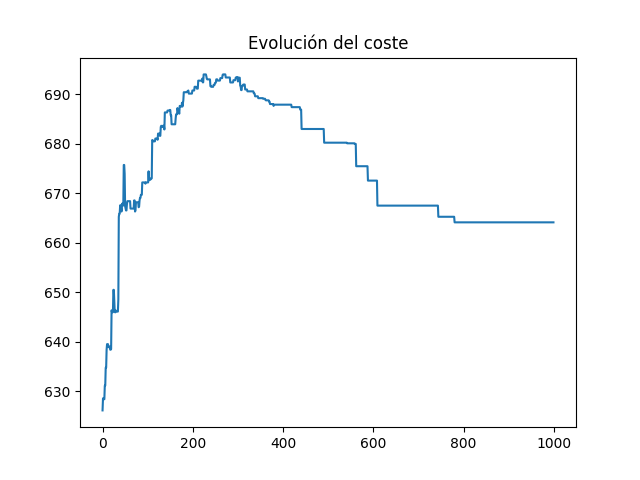
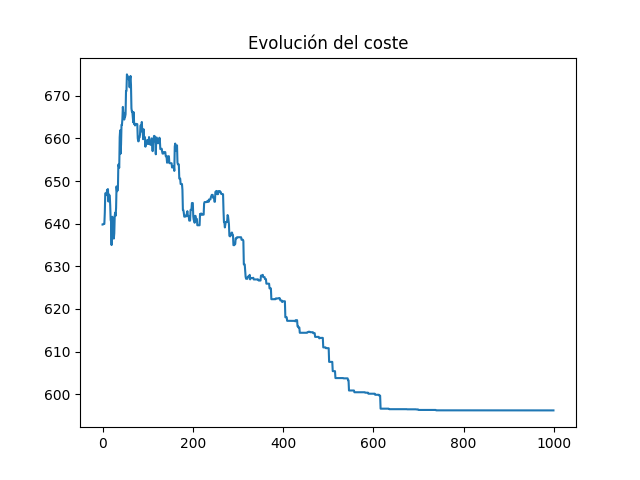
Ultimos cambios

diff --git a/Estado.py b/Estado.py
@@ -42,8 +42,9 @@ class Estado(object):
             if extendido:
                 for oferta2 in total_ofertas:
                     if oferta2!=oferta1 and ((oferta2 in ofertas_usadas and peso_ocupado<=lista_peso_libre[ofertas_usadas.index(oferta2)]) or (oferta2 not in ofertas_usadas and peso_ocupado<=self._transporte.pesomax(oferta2))):
+                        #Si podemos meter todos los paquetes de una oferta en otra (usada o nueva) hace SwapOferta (si caben y cumplen la prioridad)
                         if not simulated_annealing:
-                            yield SwapOferta(oferta1,oferta2)#Si podemos meter todos los paquetes de una oferta en otra (usada o nueva) hace SwapOferta (si caben y cumplen la prioridad)
+                            yield SwapOferta(oferta1,oferta2)
                         else:
                             list_acciones.append(SwapOferta(oferta1,oferta2))
 
@@ -64,8 +65,9 @@ class Estado(object):
                                 if lista_peso_libre[ofertas_usadas.index(oferta)]+peso_paquete2>=peso_paquete:
                                     if prioridad_paquete<=prioridad_paquete2:
                                         if (oferta[0]+1)//2<=prioridad_paquete:
+                                            #Si el paquete más grande cabe en la otra oferta y el paquete de menor prioridad puede ir a la otra oferta hace SwapPaquete
                                             if not simulated_annealing:
-                                                yield SwapPaquetes(paquete,paquete2,oferta1,oferta)#Si el paquete más grande cabe en la otra oferta y el paquete de menor prioridad puede ir a la otra oferta hace SwapPaquete
+                                                yield SwapPaquetes(paquete,paquete2,oferta1,oferta)
                                             else:
                                                 list_acciones.append(SwapPaquetes(paquete,paquete2,oferta1,oferta))
                                     else:
@@ -89,8 +91,9 @@ class Estado(object):
                                             else:
                                                 list_acciones.append(SwapPaquetes(paquete,paquete2,oferta1,oferta))
                     elif peso_paquete<=self._transporte.pesomax(oferta):
+                        #Si no estamos usando la oferta seguro que cabe y hacemos MovePaquete
                         if not simulated_annealing:
-                            yield MovePaquete(paquete,oferta1,oferta)#Si no estamos usando la oferta seguro que cabe y hacemos MovePaquete
+                            yield MovePaquete(paquete,oferta1,oferta)
                         else:
                             list_acciones.append(MovePaquete(paquete,oferta1,oferta))
         if simulated_annealing:
@@ -192,14 +195,14 @@ class Estado(object):
         '''
         Función heurística que busca minimizar el coste y augmentar la felicidad sin ponderación
         '''
-        return -self._coste#float(self._felicidad)/self._coste
+        return -self._coste
     
     def heuristic_ponderado(self):
         '''
         Función heurística que busca minimizar el coste y augmentar la felicidad teniendo 
         en cuenta la ponderación
         '''
-        return self.k*float(self._felicidad)-(1-self.k)*self._coste
+        return self.k*float(self._felicidad)-self._coste
     
     def heuristic_entropia(self):
         '''
@@ -279,7 +282,5 @@ def estado_inicial_aleatorio(paquetes: Paquetes,transporte: Transporte,k=1):
         paquetes.asignar()
         coste+=peso*0.25*(2 if oferta[0]==4 else 1) if oferta[0]>=2 else 0 #Sumamos el coste del almacén
         coste += 1.5*(1+ ((oferta[0]+1)//2)%2) if ((oferta[0]+1)//2)>0 else 5 #Sumamos el coste de envío
-        #print(coste)
-    print('estado inicial:',diccionario)
+
     return Estado(diccionario,transporte,paquetes,coste,0,k)
-#

diff --git a/experimento_7.py b/experimento_7.py
@@ -1,0 +1,57 @@
+import matplotlib
+matplotlib.use('agg')
+import matplotlib.pyplot as plt
+from timeit import timeit
+import random
+
+from Problem import Problema
+from Estado import estado_inicial, estado_inicial_aleatorio
+from Paquetes import Paquetes
+from Transporte import Transporte
+from aima.search import hill_climbing, simulated_annealing
+
+num_paquetes = 50
+def ponderaciones(num,semilla):
+    tiempos=[]
+    costes = []
+    for val in range(num):
+        
+        coste= []
+        time=[]
+        for _ in range(5):
+            paquetes=Paquetes(num_paquetes,semilla)
+            transporte=Transporte(paquetes._lista_paquetes,1.2,semilla)
+            p = Problema(estado_inicial_aleatorio(paquetes,transporte,val),1,'Ponderado',True)
+            time.append(timeit(lambda: coste.append(simulated_annealing(p)._felicidad),number=1))
+        costes.append(sum(coste) / len(coste))
+        tiempos.append(sum(time)/len(time))
+    return costes
+
+n=20
+semillas=[4925,1068,2850,1976,1735]
+pesos=[]
+times=[]
+proporciones = [i for i in range(n)]
+for j in range(5):
+    sem = semillas[j]
+    #semillas.append(sem)
+    precios = ponderaciones(n,sem)    
+    #times.append(tiempo)
+    pesos.append(precios) 
+    plt.plot(proporciones,precios,label=f'semilla {sem}')
+    
+    
+print(semillas)
+print(pesos)
+
+plt.legend()
+plt.title('Felicidad en función de la ponderación de la felicidad')
+plt.savefig('felicidad_sim_ann.png')
+'''
+plt.clf()
+for i in range(len(pesos)):
+    plt.plot(proporciones,times[i],label=f'semilla {semillas[i]}')
+
+plt.title('Tiempo de ejecución en función de la ponderación de la felicidad')
+plt.savefig('tiempos_sim_ann.png')
+'''

diff --git a/experimento_6.py b/experimento_6.py
@@ -12,28 +12,30 @@ from aima.search import hill_climbing, simulated_annealing
 
 num_paquetes = 50
 def ponderaciones(num,semilla):
-    
+    tiempos=[]
     costes = []
-    for val in range(num+1):
-        peso = val/num
+    for val in range(num):
         
         coste= []
-        for _ in range(3):
+        time=[]
+        for _ in range(5):
             paquetes=Paquetes(num_paquetes,semilla)
             transporte=Transporte(paquetes._lista_paquetes,1.2,semilla)
-            p = Problema(estado_inicial_aleatorio(paquetes,transporte,peso),1,'Ponderado',True)
-            coste.append(hill_climbing(p)._coste)
+            p = Problema(estado_inicial_aleatorio(paquetes,transporte,val),1,'Ponderado')
+            time.append(timeit(lambda: coste.append(hill_climbing(p)._coste),number=1))
         costes.append(sum(coste) / len(coste))
-    return costes
+        tiempos.append(sum(time)/len(time))
+    return tiempos
 
-semillas=[]
+semillas=[1814, 6627, 2530, 1718, 5707]
 pesos=[]
 for j in range(5):
-    n=10
-    sem = random.randint(1000,9999)
+    n=20
+    sem = semillas[j]
     precios = ponderaciones(n,sem)
-    proporciones = [k/n for k in range(n+1)]
-    semillas.append(sem) 
+    proporciones = [i for i in range(n)]
+
+    pesos.append(precios) 
     plt.plot(proporciones,precios,label=f'semilla {sem}')
     
     
@@ -41,5 +43,5 @@ print(semillas)
 print(pesos)
 
 plt.legend()
-plt.title('Costes en función de la ponderación de la felicidad')
-plt.savefig('costes_ponderaciones.png')
+plt.title('Tiempo de ejecución en función de la ponderación de la felicidad')
+plt.savefig('tiempo_ponderaciones.png')

diff --git a/main.py b/main.py
@@ -1,15 +1,8 @@
-import matplotlib
-matplotlib.use('agg')
-import matplotlib.pyplot as plt
-from timeit import timeit
-import random
-
 from Problem import Problema
 from Estado import estado_inicial, estado_inicial_aleatorio
 from Paquetes import Paquetes
 from Transporte import Transporte
 from aima.search import hill_climbing, simulated_annealing
-import timeit
 
 num_paquetes=50
 semilla=1234
@@ -17,20 +10,5 @@ paquetes=Paquetes(num_paquetes,semilla)
 transporte=Transporte(paquetes._lista_paquetes,1.2,semilla)
 
 p=Problema(estado_inicial_aleatorio(paquetes,transporte),simulated_annealing=True)
-problema,costes=simulated_annealing(p)
-#print(timeit.timeit(lambda: hill_climbing(Problema(estado_inicial(paquetes,transporte))), number=10))
-print('solución:',problema._asignaciones,problema._coste,problema._felicidad)
-print(p.pasos)
-print(len(costes))
-'''
-plt.plot([i for i in range(1000)],costes)
-plt.title('Evolución del coste')
-plt.savefig('evo_coste3.png')
-'''
-'''
-for oferta in transporte._lista_ofertas:
-    print(oferta)
-for paquete in range(len(paquetes._lista_paquetes)):
-    print(paquete,end=' ')
-    print(paquetes._lista_paquetes[paquete])
-    '''
+problema=simulated_annealing(p)
+print('solución:',problema._asignaciones,'\n Coste:',problema._coste,'\n Felicidad:',problema._felicidad)

diff --git a/pruebas.py b/pruebas.py
@@ -1,0 +1,36 @@
+import matplotlib
+matplotlib.use('agg')
+import matplotlib.pyplot as plt
+from timeit import timeit
+import random
+
+from Problem import Problema
+from Estado import estado_inicial, estado_inicial_aleatorio
+from Paquetes import Paquetes
+from Transporte import Transporte
+from aima.search import hill_climbing, simulated_annealing
+import timeit
+
+num_paquetes=50
+semilla=1234
+paquetes=Paquetes(num_paquetes,semilla)
+transporte=Transporte(paquetes._lista_paquetes,1.2,semilla)
+
+p=Problema(estado_inicial_aleatorio(paquetes,transporte),simulated_annealing=True)
+problema,costes=simulated_annealing(p)
+#print(timeit.timeit(lambda: hill_climbing(Problema(estado_inicial(paquetes,transporte))), number=10))
+print('solución:',problema._asignaciones,problema._coste,problema._felicidad)
+print(p.pasos)
+print(len(costes))
+
+plt.plot([i for i in range(1000)],costes)
+plt.title('Evolución del coste')
+plt.savefig('evo_coste5.png')
+
+'''
+for oferta in transporte._lista_ofertas:
+    print(oferta)
+for paquete in range(len(paquetes._lista_paquetes)):
+    print(paquete,end=' ')
+    print(paquetes._lista_paquetes[paquete])
+    '''

diff --git a/Problem.py b/Problem.py
@@ -11,7 +11,7 @@ class Problema(Problem):
         self.pasos=0 #Número de pasos ejecutados
         self.extendido=extendido #1 Si usamos el oferador SwapOferta 0 si no
         self.heuristica=heuristica #'Basico' o 'Ponderado'
-        self.simulated_annealing = simulated_annealing
+        self.simulated_annealing = simulated_annealing # Si es True las acciones se guardan en una lista y se elige una al azar
         super().__init__(initial)
     
     def actions(self,estado):

diff --git a/abia_azamon.py b/abia_azamon.py
@@ -112,7 +112,6 @@ def random_ofertas(list_paquetes: List[Paquete],
     :param seed: Semilla del generador de números aleatorios
     :return: Estructura de ofertas de transporte (u ofertas de envíos)
     """
-    print(proporcion)
 
     def truncate(valor: float) -> float:
         # Función auxiliar para generar precios aleatorios
